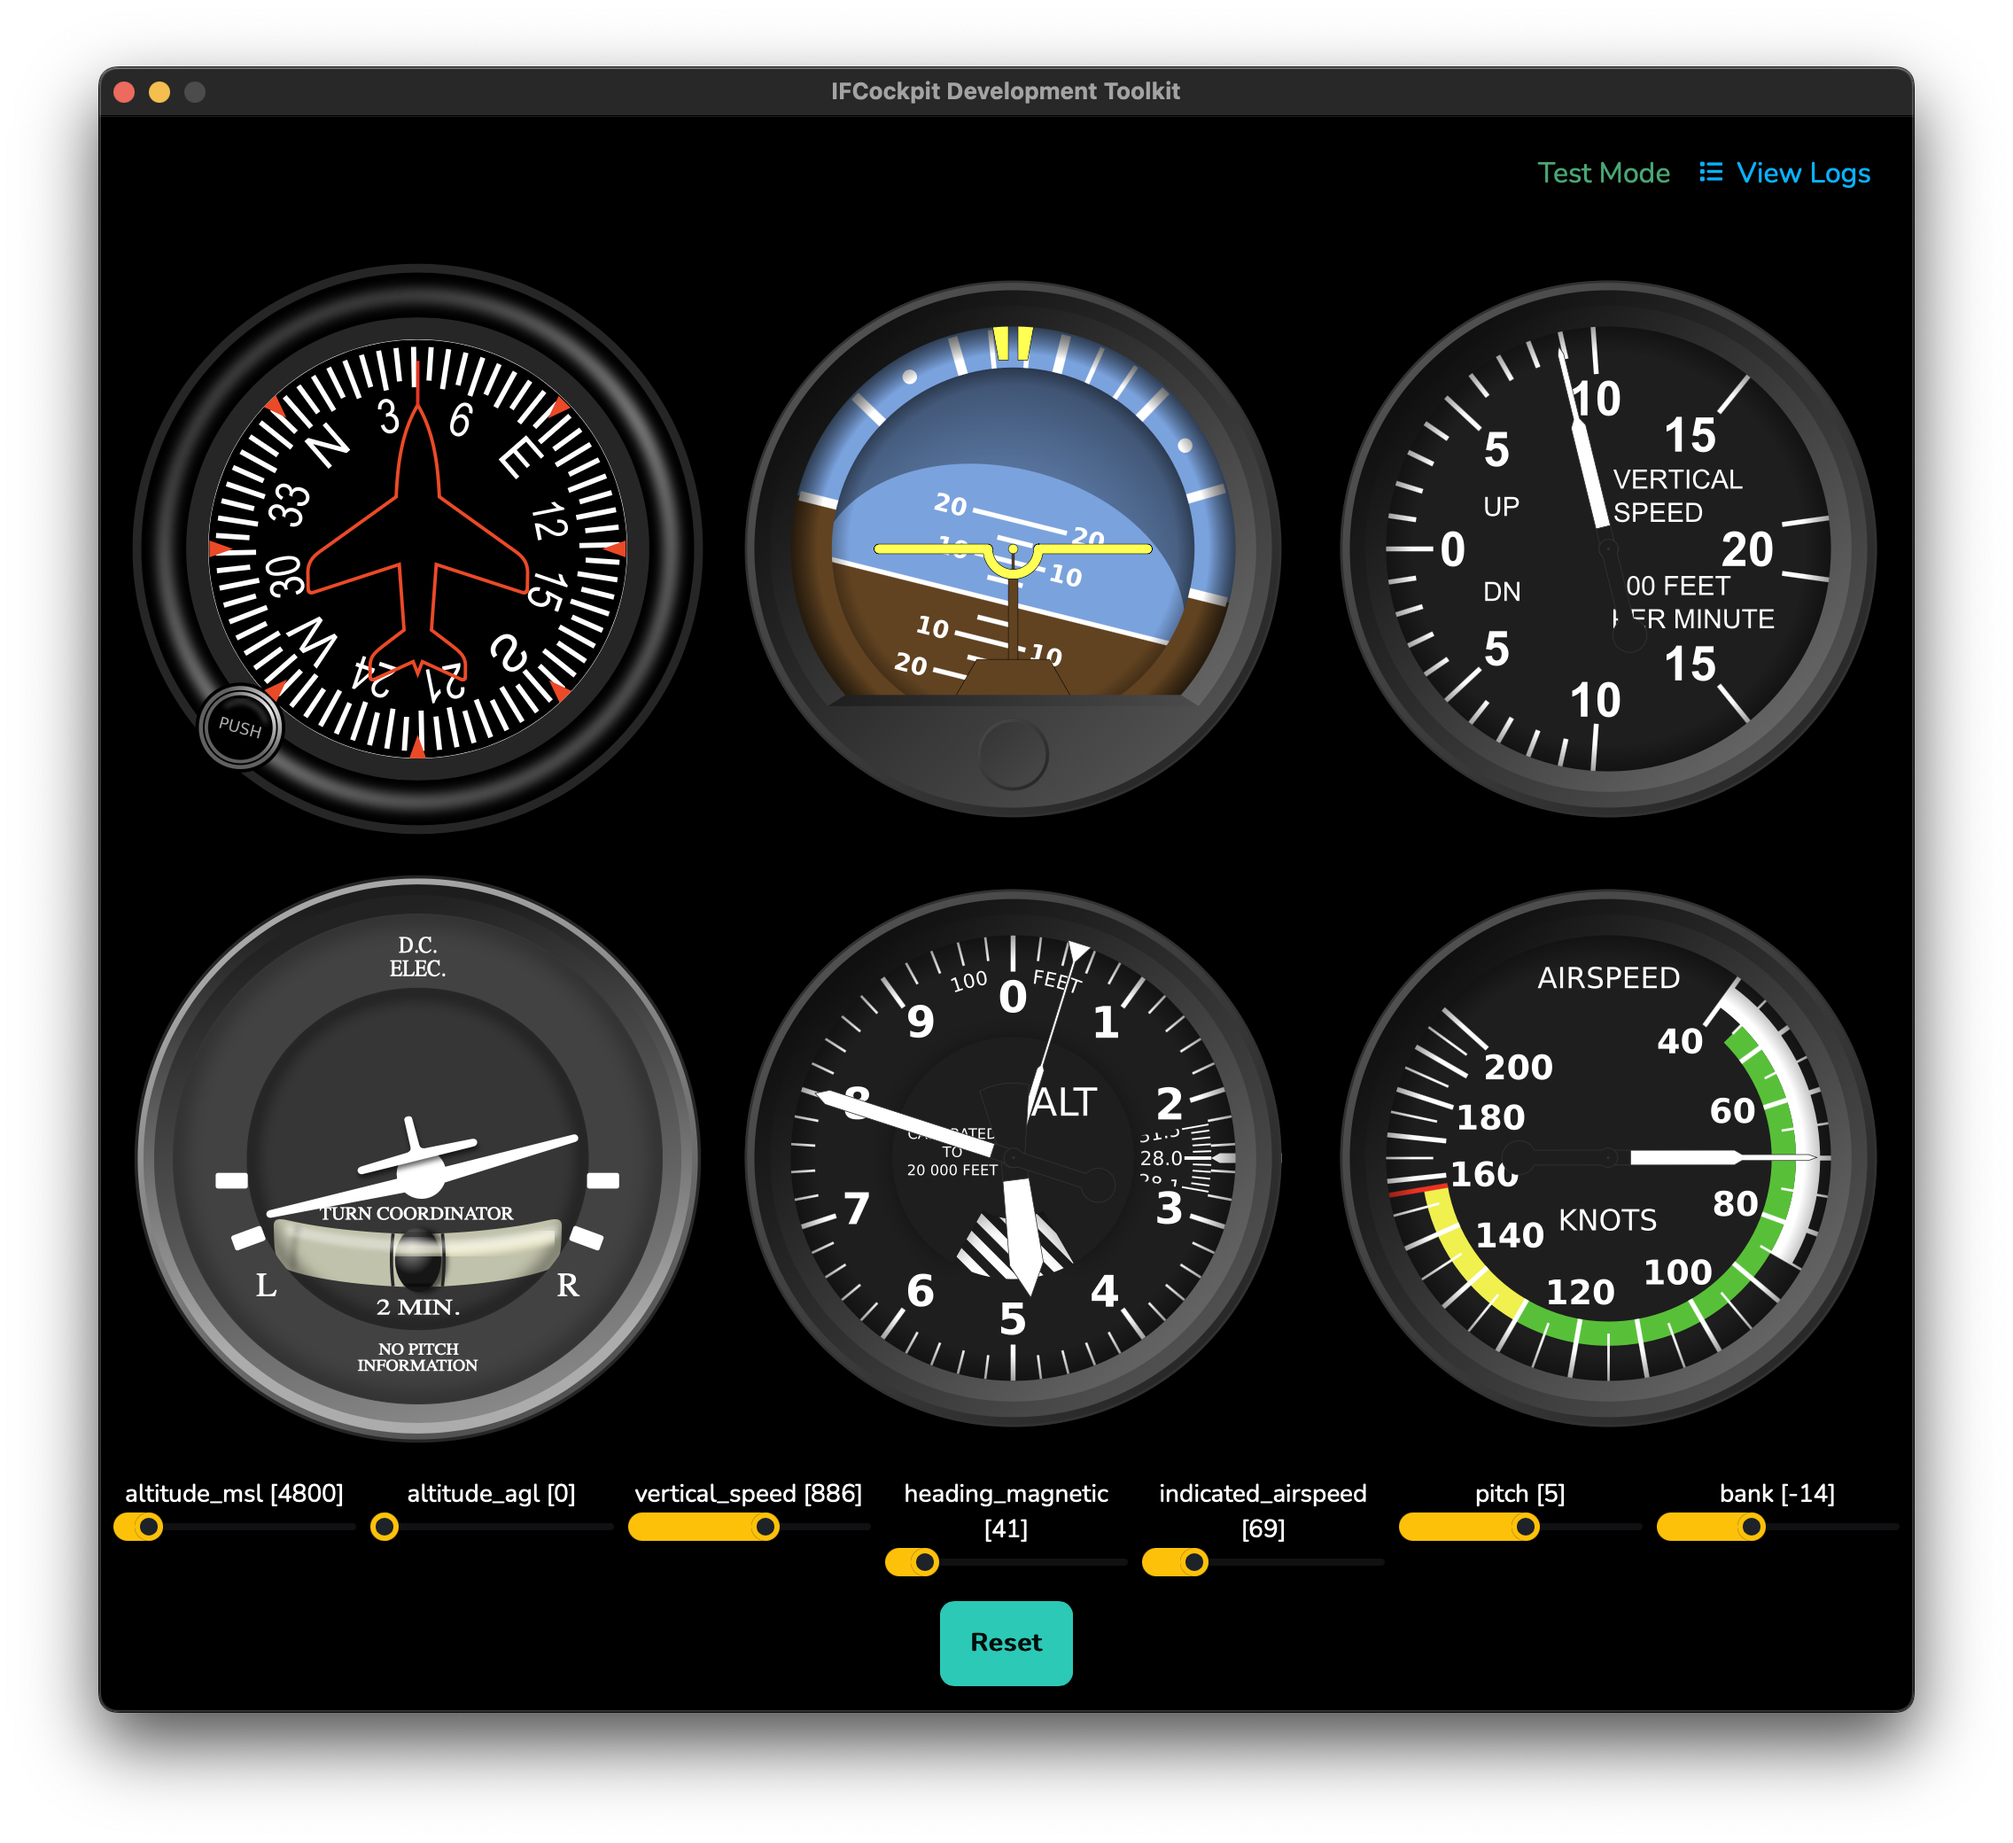
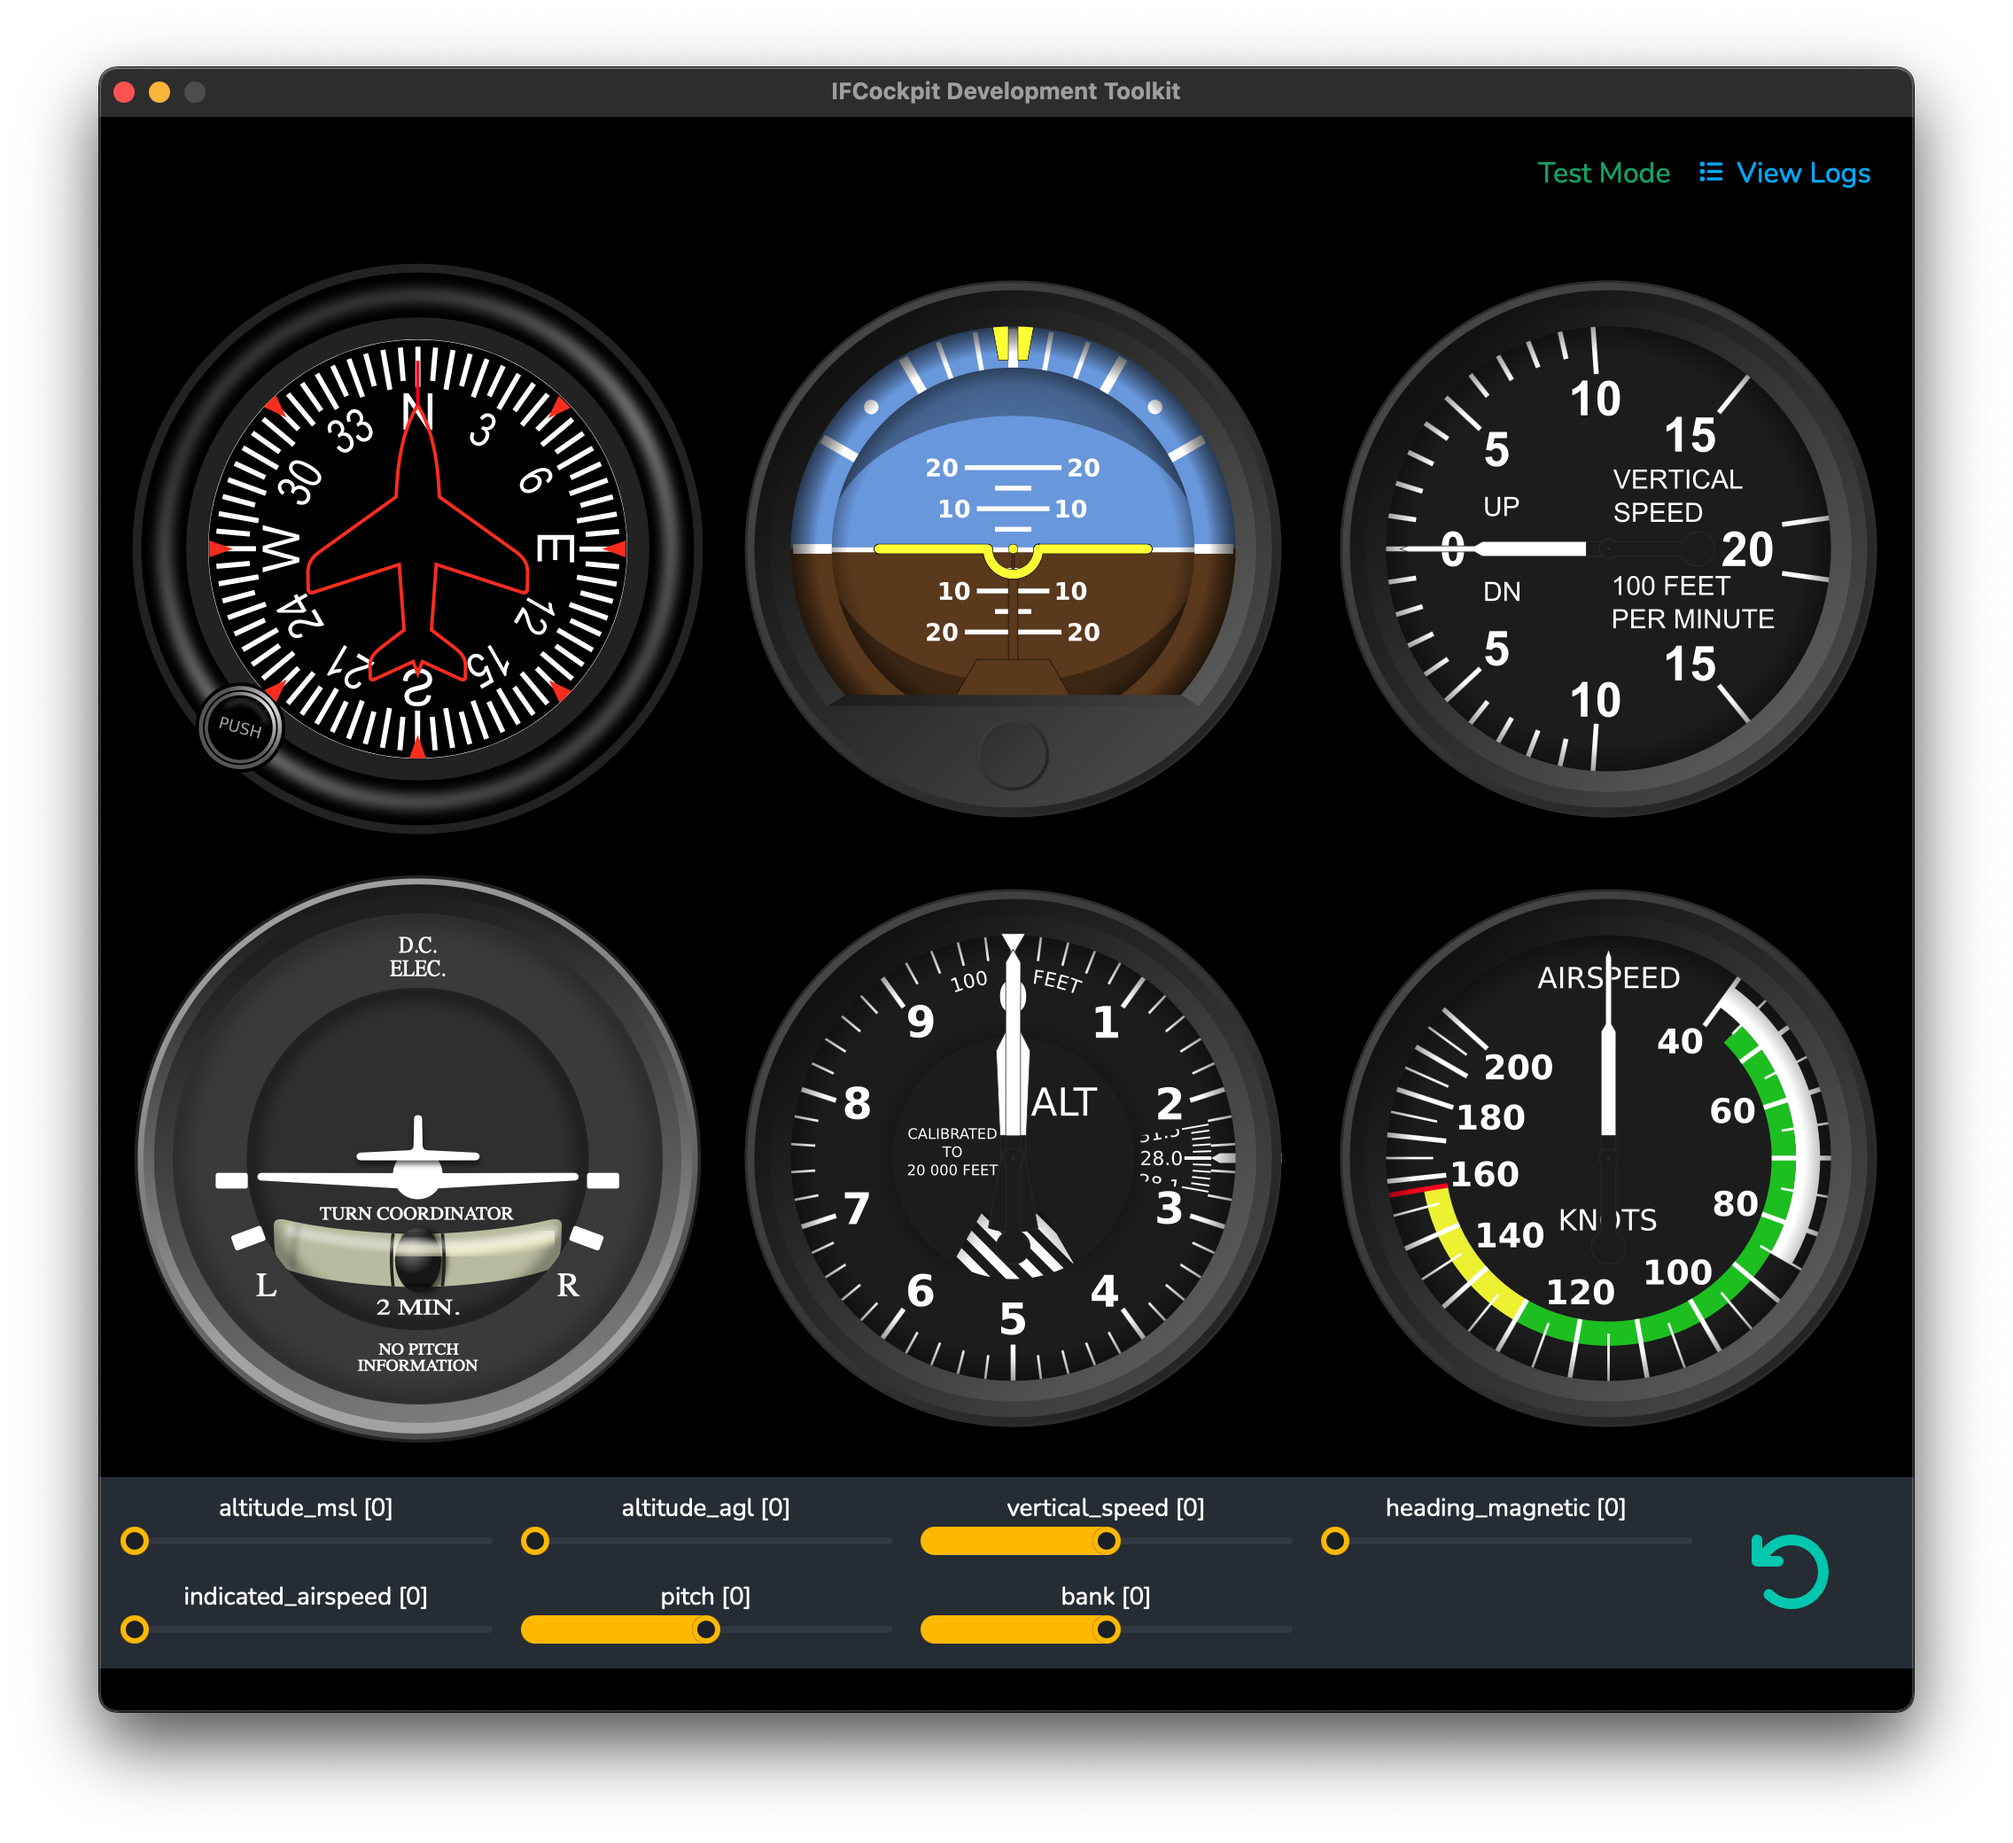
Update test mode UI

diff --git a/frontend/src/App.svelte b/frontend/src/App.svelte
@@ -308,44 +308,44 @@
   <!-- Test mode if selected -->
   <!-- May externalise test mode later in a Svelte component -->
   {#if testMode}
-    <div id="testmode" class="grid grid-cols-7 gap-2 m-2">
+    <div id="testmode" class="grid grid-cols-9 gap-2 m-0 p-2 bg-neutral">
 
-      <div class="p-0 text-sm">
+      <div class="p-0 mx-1 text-sm col-span-2">
         <div>altitude_msl [{test_altitude_msl * 100}]</div>
         <input type="range" min="0" max="480" bind:value={test_altitude_msl} class="range range-warning range-xs" on:input={() => {previous["aircraft/0/altitude_msl"] = states["aircraft/0/altitude_msl"]; states["aircraft/0/altitude_msl"] = test_altitude_msl * 100}} />
       </div>
 
-      <div class="p-0 text-sm">
+      <div class="p-0 mx-1 text-sm col-span-2">
         <div>altitude_agl [{test_altitude_agl * 100}]</div>
         <input type="range" min="0" max="480" bind:value={test_altitude_agl} class="range range-warning range-xs" on:input={() => {previous["aircraft/0/altitude_agl"] = states["aircraft/0/altitude_agl"]; states["aircraft/0/altitude_agl"] = test_altitude_agl * 100}} />
       </div>
 
-      <div class="p-0 text-sm">
+      <div class="p-0 mx-1 text-sm col-span-2">
         <div>vertical_speed [{Math.round((test_vertical_speed / 10) * 60 * 3.28084)}]</div>
         <input type="range" min="-300" max="300" bind:value={test_vertical_speed} class="range range-warning range-xs" on:input={() => {previous["aircraft/0/vertical_speed"] = states["aircraft/0/vertical_speed"]; states["aircraft/0/vertical_speed"] = test_vertical_speed / 10}} />        
       </div>
 
-      <div class="p-0 text-sm">
+      <div class="p-0 mx-1 text-sm col-span-2">
         <div>heading_magnetic [{Math.floor(((test_heading_magnetic / 100) * 180) / Math.PI)}]</div>
         <input type="range" min="0" max="600" bind:value={test_heading_magnetic} class="range range-warning range-xs" on:input={() => {previous["aircraft/0/heading_magnetic"] = states["aircraft/0/heading_magnetic"]; states["aircraft/0/heading_magnetic"] = test_heading_magnetic / 100}} />        
       </div>
 
-      <div class="p-0 text-sm">
+      <div class="p-4 mx-1 row-span-2 content-center"><svg on:click={resetTestMode} xmlns="http://www.w3.org/2000/svg" viewBox="0 0 512 512"><!--!Font Awesome Free 6.6.0 by @fontawesome - https://fontawesome.com License - https://fontawesome.com/license/free Copyright 2024 Fonticons, Inc.--><path d="M125.7 160l50.3 0c17.7 0 32 14.3 32 32s-14.3 32-32 32L48 224c-17.7 0-32-14.3-32-32L16 64c0-17.7 14.3-32 32-32s32 14.3 32 32l0 51.2L97.6 97.6c87.5-87.5 229.3-87.5 316.8 0s87.5 229.3 0 316.8s-229.3 87.5-316.8 0c-12.5-12.5-12.5-32.8 0-45.3s32.8-12.5 45.3 0c62.5 62.5 163.8 62.5 226.3 0s62.5-163.8 0-226.3s-163.8-62.5-226.3 0L125.7 160z"/></svg></div>
+
+      <div class="p-0 mx-1 text-sm col-span-2">
         <div>indicated_airspeed [{Math.floor(test_indicated_airspeed * 1.94384)}]</div>
         <input type="range" min="0" max="205" bind:value={test_indicated_airspeed} class="range range-warning range-xs" on:input={() => {previous["aircraft/0/indicated_airspeed"] = states["aircraft/0/indicated_airspeed"]; states["aircraft/0/indicated_airspeed"] = test_indicated_airspeed}} />        
       </div>
 
-      <div class="p-0 text-sm">
+      <div class="p-0 mx-1 text-sm col-span-2">
         <div>pitch [{Math.round(((test_pitch / 100) * 180) / Math.PI)}]</div>
         <input type="range" min="-200" max="200" bind:value={test_pitch} class="range range-warning range-xs" on:input={() => {previous["aircraft/0/pitch"] = states["aircraft/0/pitch"]; states["aircraft/0/pitch"] = test_pitch / 100}} />        
       </div>
 
-      <div class="p-0 text-sm">
+      <div class="p-0 mx-1 text-sm col-span-2">
         <div>bank [{Math.round(((test_bank / 100) * 180) / Math.PI)}]</div>
         <input type="range" min="-100" max="100" bind:value={test_bank} class="range range-warning range-xs" on:input={() => {previous["aircraft/0/bank"] = states["aircraft/0/bank"]; states["aircraft/0/bank"] = test_bank / 100}} />        
       </div>
-
-      <div class="col-span-7"><button class="btn btn-accent" on:click={resetTestMode}>Reset</button></div>
 
     </div>
   {:else}
@@ -385,6 +385,18 @@
 
   main {
     background-color: #000;
+  }
+
+  #testmode svg {
+    width: 3rem;
+  }
+
+  #testmode svg path {
+    fill: oklch(var(--a));
+  }
+
+  #testmode svg:hover {
+    cursor: pointer;
   }
 
 </style>
